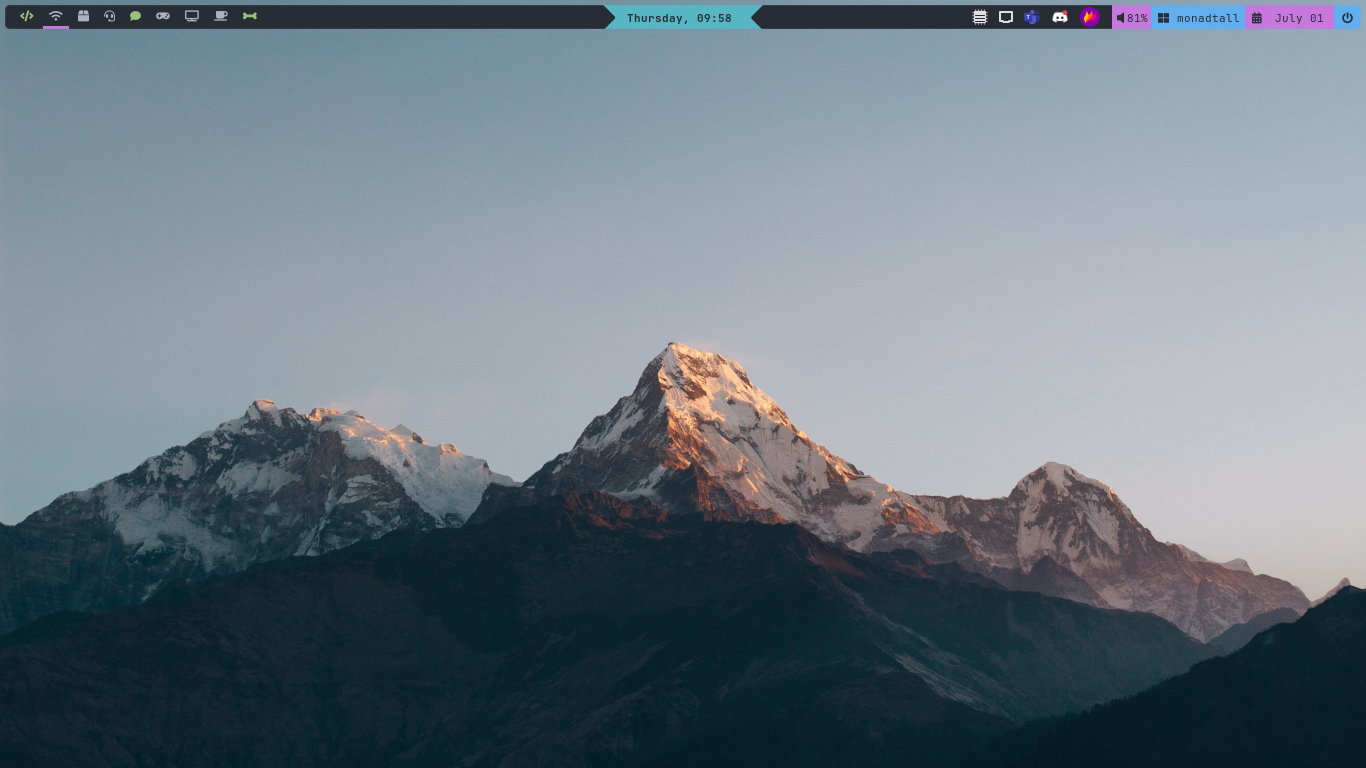
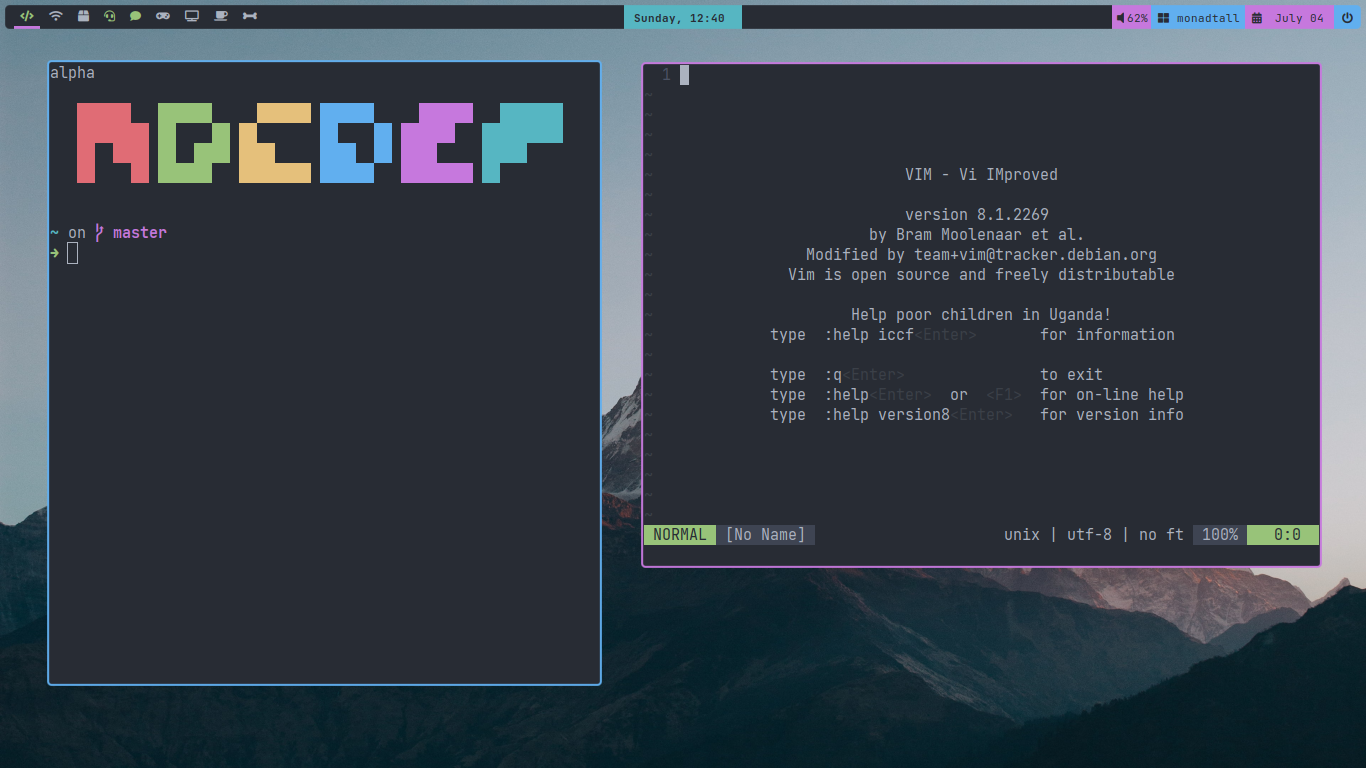
new hehe

diff --git a/config.py b/config.py
@@ -1,13 +1,10 @@
 import os
 import json
 import subprocess
-from typing import List, Text
 
 from libqtile import bar, layout, widget
-import libqtile
 from libqtile.config import Click, Drag, Group, Key, Match, Screen
 from libqtile.lazy import lazy
-from libqtile.utils import guess_terminal
 from libqtile import qtile
 from libqtile import hook
 
@@ -107,7 +104,7 @@ keys = [
         [mod],
         "r",
         lazy.spawn("rofi -show drun"),
-        desc="Spawn a command using a prompt widget",
+        desc="Spawn a command using rofi",
     ),
     Key([mod], "t", lazy.spawncmd(), desc="Spawn a command using a prompt"),
     Key([mod], "b", lazy.spawn("firefox"), desc="Open firefox"),
@@ -242,28 +239,28 @@ widgets_list: list = [
     #         font="JetBrains Mono Bold", foreground=colors["window_name"], padding=0
     #     ),
     widget.Spacer(),
-    widget.TextBox(
-        text="caret-right",
-        font=looks["caret_font"],
-        fontsize=looks["caret_font_size"],
-        background=colors["time"],
-        foreground=colors["bg"],
-        padding=0,
-    ),
+    # widget.TextBox(
+    #     text="caret-right",
+    #     font=looks["caret_font"],
+    #     fontsize=looks["caret_font_size"],
+    #     background=colors["time"],
+    #     foreground=colors["bg"],
+    #     padding=0,
+    # ),
     widget.Clock(
         font="Jetbrains Mono Bold",
         foreground=colors["timefg"],
         background=colors["time"],
         format=" %A, %H:%M  ",
     ),
-    widget.TextBox(
-        text="caret-left",
-        font=looks["caret_font"],
-        fontsize=looks["caret_font_size"],
-        background=colors["time"],
-        foreground=colors["bg"],
-        padding=0,
-    ),
+    # widget.TextBox(
+    #     text="caret-left",
+    #     font=looks["caret_font"],
+    #     fontsize=looks["caret_font_size"],
+    #     background=colors["time"],
+    #     foreground=colors["bg"],
+    #     padding=0,
+    # ),
     widget.Spacer(),
     widget.Systray(foreground=colors["power2"], padding=10),
     widget.Sep(
